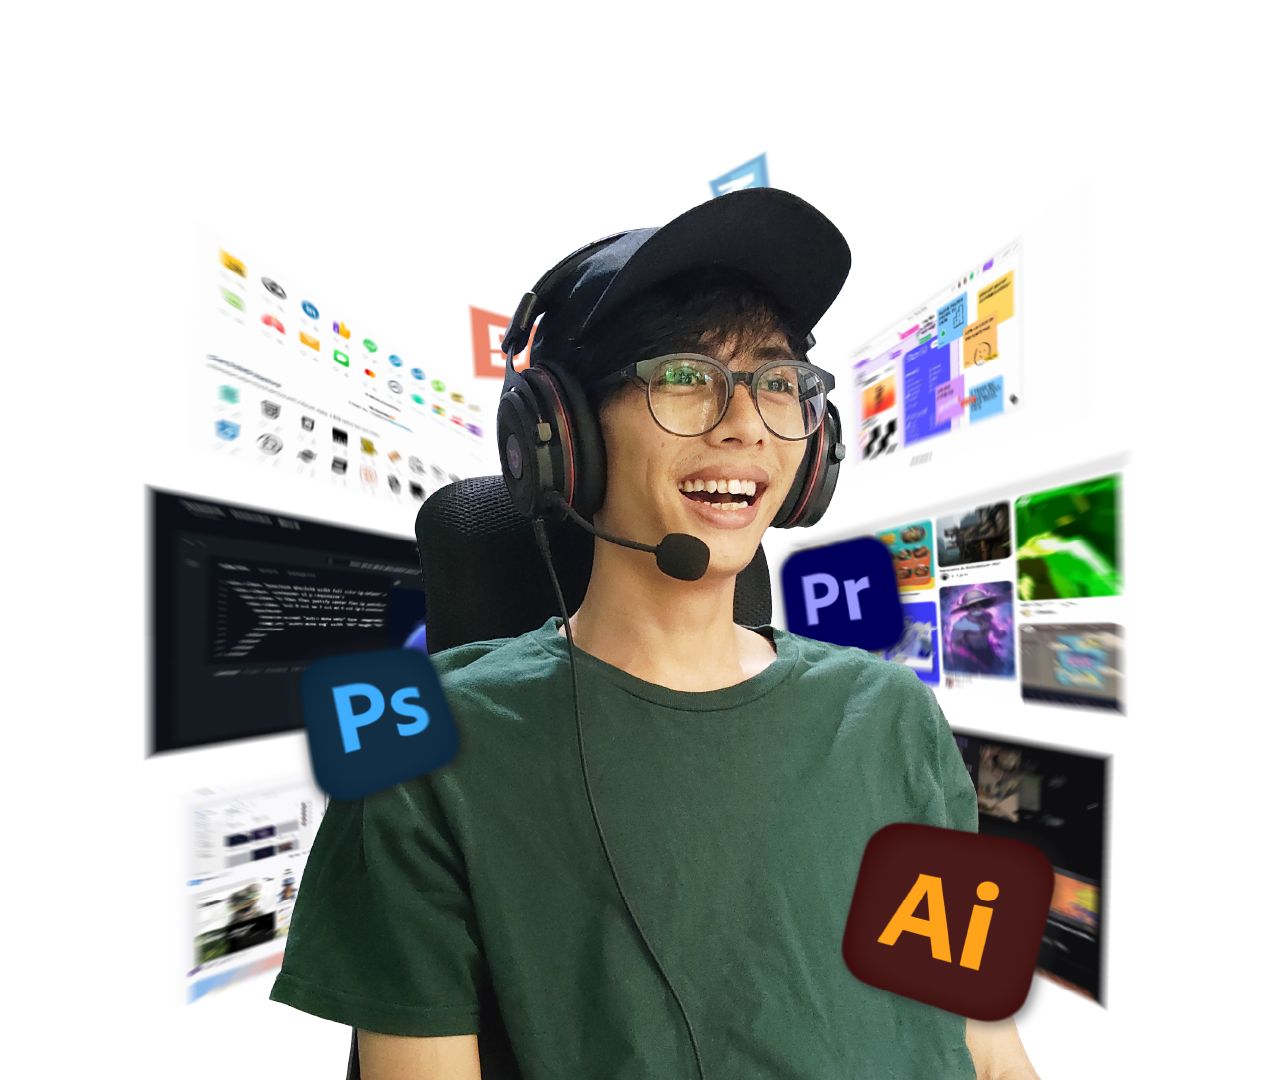
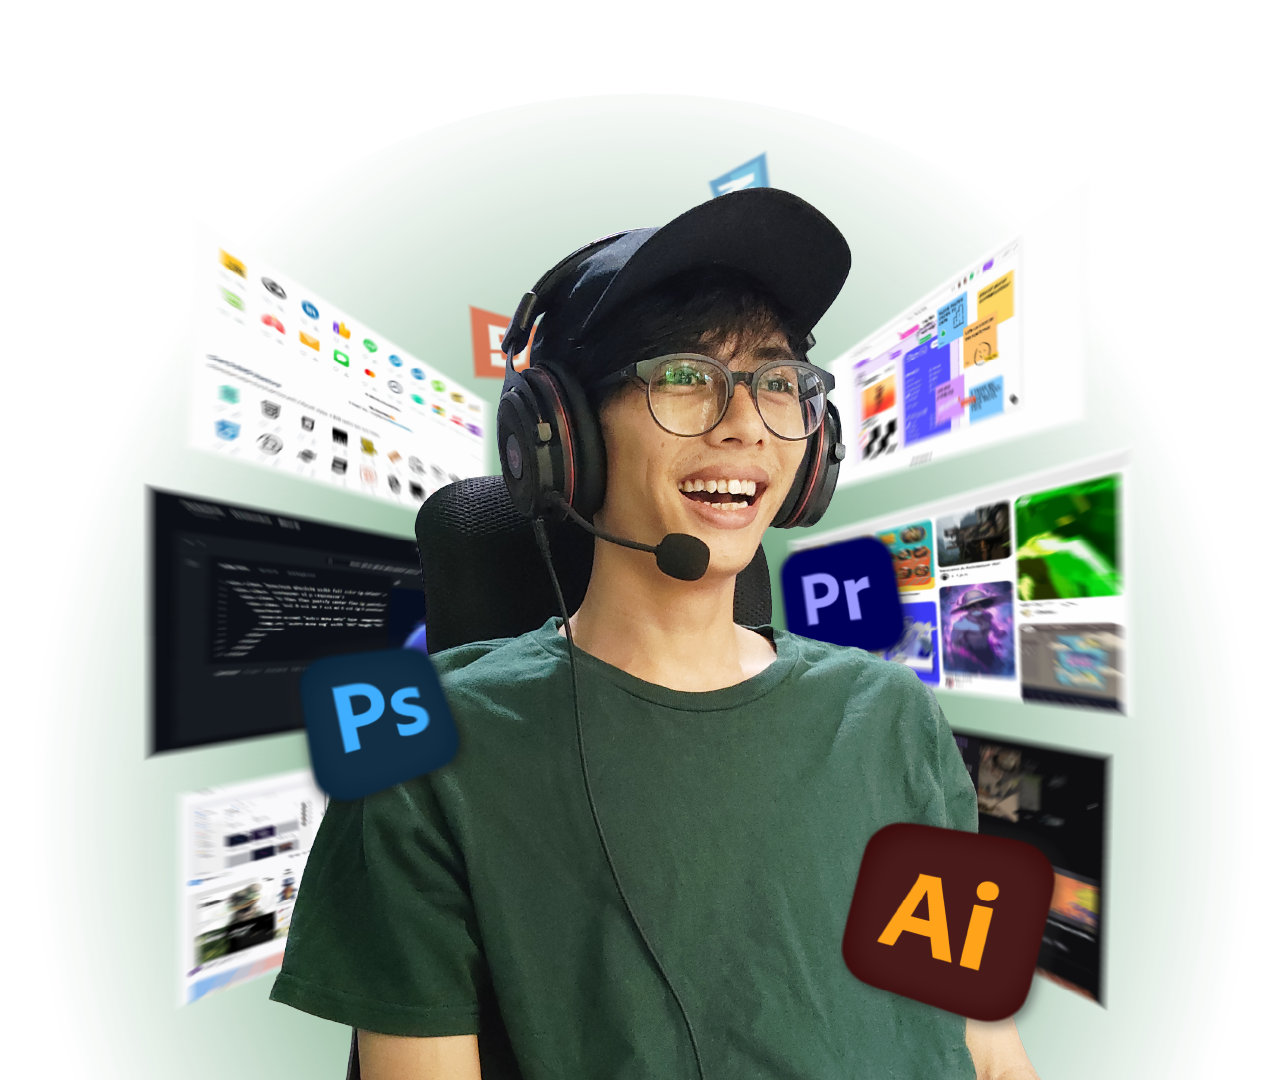
memperbaiki berbagai container

diff --git a/style.css b/style.css
@@ -6,7 +6,7 @@
 body {
     font-family: 'Poppins', sans-serif;
     overflow-x: hidden;
-    background-image: url(img/background.jpg);
+    background-color: #092919;
     background-repeat: repeat;
 }
 
@@ -16,15 +16,15 @@ nav {
     display: flex;
     background-color: #f2f2f2;
     justify-content: space-between;
-    height: 50px;
-    color: #106628;
+    height: 75px;
+    color: #092919;
     align-items: center;
     position: fixed;
     top: 0;
     left: 0;
     right: 0;
     z-index: 99;
-    box-shadow: 3px 3px 10px #0202025a;
+    box-shadow: 3px 3px 10px #02020222;
 }
 
 nav .box-nav {
@@ -37,7 +37,8 @@ nav .box-nav {
 
 nav .logo a {
     text-decoration: none;
-    color: #106628;
+    color: #092919;
+    font-size: 1.3em;
 }
 
 nav ul {
@@ -49,7 +50,7 @@ nav ul {
 
 nav ul li a {
     text-decoration: none;
-    color: #106628;
+    color: #092919;
     font-size: 0.9em;
 }
 
@@ -122,7 +123,7 @@ nav ul li a:hover {
 /* Container 1 */
 .container-satu {
     width: 990px;
-    margin: 50px auto 0;
+    margin: 75px auto 0;
     display: flex;
     justify-content: space-between;
     align-items: center;
@@ -303,6 +304,7 @@ footer {
 
     nav {
         padding: 0 15%;
+        height: 50px;
     }
     
     nav ul {
@@ -314,6 +316,7 @@ footer {
         flex-direction: column;
         align-items: center;
         justify-content: center;
+        margin: 50px 0 0;
     }
     
     .container-satu .thumbnail {
